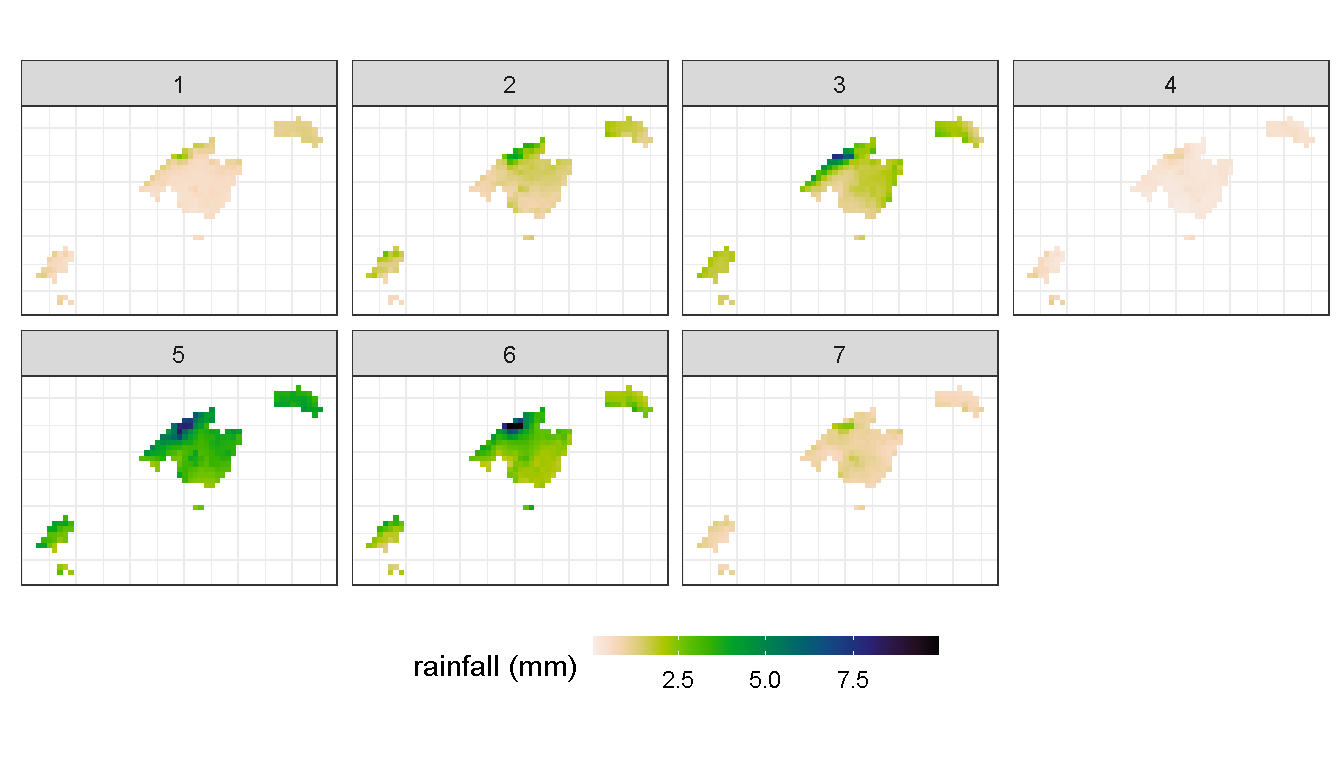
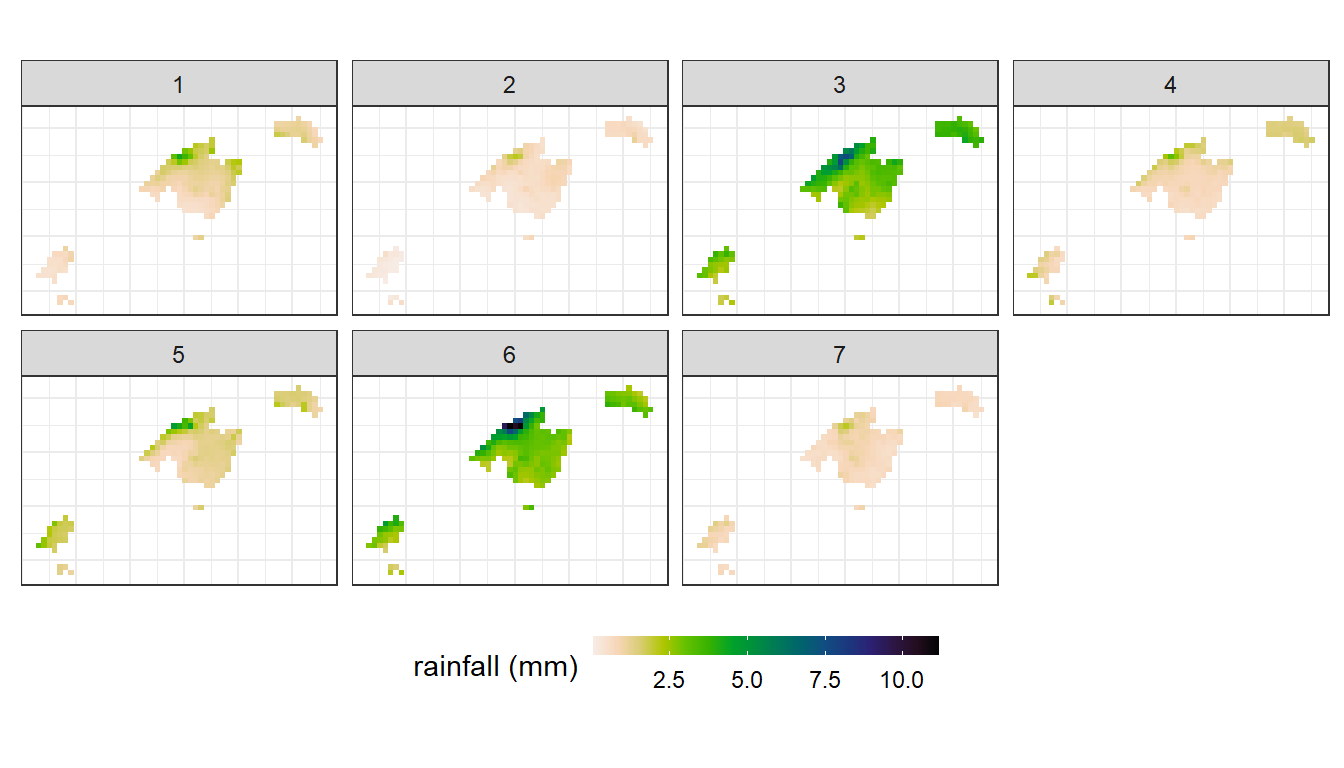
update

diff --git a/synoptreg/articles/circulation-to-environment.html b/synoptreg/articles/circulation-to-environment.html
@@ -84,7 +84,7 @@
       <h1>Circulation-To-Environment</h1>
                         <h4 class="author">Marc Lemus-Canovas</h4>
             
-            <h4 class="date">2020-03-23</h4>
+            <h4 class="date">2020-08-24</h4>
       
       
       <div class="hidden name"><code>circulation-to-environment.Rmd</code></div>
@@ -145,15 +145,15 @@
 <a class="sourceLine" id="cb5-4" title="4"><span class="co">#&gt; # A tibble: 1,096 x 2</span></a>
 <a class="sourceLine" id="cb5-5" title="5"><span class="co">#&gt;    time          WT</span></a>
 <a class="sourceLine" id="cb5-6" title="6"><span class="co">#&gt;    &lt;date&gt;     &lt;int&gt;</span></a>
-<a class="sourceLine" id="cb5-7" title="7"><span class="co">#&gt;  1 2000-01-01     4</span></a>
-<a class="sourceLine" id="cb5-8" title="8"><span class="co">#&gt;  2 2000-01-02     4</span></a>
-<a class="sourceLine" id="cb5-9" title="9"><span class="co">#&gt;  3 2000-01-03     4</span></a>
-<a class="sourceLine" id="cb5-10" title="10"><span class="co">#&gt;  4 2000-01-04     4</span></a>
-<a class="sourceLine" id="cb5-11" title="11"><span class="co">#&gt;  5 2000-01-05     4</span></a>
-<a class="sourceLine" id="cb5-12" title="12"><span class="co">#&gt;  6 2000-01-06     4</span></a>
-<a class="sourceLine" id="cb5-13" title="13"><span class="co">#&gt;  7 2000-01-07     4</span></a>
-<a class="sourceLine" id="cb5-14" title="14"><span class="co">#&gt;  8 2000-01-08     4</span></a>
-<a class="sourceLine" id="cb5-15" title="15"><span class="co">#&gt;  9 2000-01-09     4</span></a>
+<a class="sourceLine" id="cb5-7" title="7"><span class="co">#&gt;  1 2000-01-01     5</span></a>
+<a class="sourceLine" id="cb5-8" title="8"><span class="co">#&gt;  2 2000-01-02     2</span></a>
+<a class="sourceLine" id="cb5-9" title="9"><span class="co">#&gt;  3 2000-01-03     2</span></a>
+<a class="sourceLine" id="cb5-10" title="10"><span class="co">#&gt;  4 2000-01-04     2</span></a>
+<a class="sourceLine" id="cb5-11" title="11"><span class="co">#&gt;  5 2000-01-05     2</span></a>
+<a class="sourceLine" id="cb5-12" title="12"><span class="co">#&gt;  6 2000-01-06     2</span></a>
+<a class="sourceLine" id="cb5-13" title="13"><span class="co">#&gt;  7 2000-01-07     2</span></a>
+<a class="sourceLine" id="cb5-14" title="14"><span class="co">#&gt;  8 2000-01-08     2</span></a>
+<a class="sourceLine" id="cb5-15" title="15"><span class="co">#&gt;  9 2000-01-09     2</span></a>
 <a class="sourceLine" id="cb5-16" title="16"><span class="co">#&gt; 10 2000-01-10     6</span></a>
 <a class="sourceLine" id="cb5-17" title="17"><span class="co">#&gt; # ... with 1,086 more rows</span></a>
 <a class="sourceLine" id="cb5-18" title="18"><span class="co">#&gt; </span></a>
@@ -161,16 +161,16 @@
 <a class="sourceLine" id="cb5-20" title="20"><span class="co">#&gt; # A tibble: 3,094 x 8</span></a>
 <a class="sourceLine" id="cb5-21" title="21"><span class="co">#&gt;    var     lon   lat time          WT mean_WT_value mean_WT_anom_va~</span></a>
 <a class="sourceLine" id="cb5-22" title="22"><span class="co">#&gt;    &lt;chr&gt; &lt;dbl&gt; &lt;dbl&gt; &lt;date&gt;     &lt;int&gt;         &lt;dbl&gt;            &lt;dbl&gt;</span></a>
-<a class="sourceLine" id="cb5-23" title="23"><span class="co">#&gt;  1 mslp  -10      60 2000-01-01     4        99430.           -2262.</span></a>
-<a class="sourceLine" id="cb5-24" title="24"><span class="co">#&gt;  2 mslp   -7.5    60 2000-01-01     4        99489.           -2202.</span></a>
-<a class="sourceLine" id="cb5-25" title="25"><span class="co">#&gt;  3 mslp   -5      60 2000-01-01     4        99533.           -2159.</span></a>
-<a class="sourceLine" id="cb5-26" title="26"><span class="co">#&gt;  4 mslp   -2.5    60 2000-01-01     4        99574.           -2117.</span></a>
-<a class="sourceLine" id="cb5-27" title="27"><span class="co">#&gt;  5 mslp    0      60 2000-01-01     4        99622.           -2069.</span></a>
-<a class="sourceLine" id="cb5-28" title="28"><span class="co">#&gt;  6 mslp    2.5    60 2000-01-01     4        99668.           -2023.</span></a>
-<a class="sourceLine" id="cb5-29" title="29"><span class="co">#&gt;  7 mslp    5      60 2000-01-01     4        99728.           -1964.</span></a>
-<a class="sourceLine" id="cb5-30" title="30"><span class="co">#&gt;  8 mslp    7.5    60 2000-01-01     4        99827.           -1865.</span></a>
-<a class="sourceLine" id="cb5-31" title="31"><span class="co">#&gt;  9 mslp   10      60 2000-01-01     4        99911.           -1781.</span></a>
-<a class="sourceLine" id="cb5-32" title="32"><span class="co">#&gt; 10 mslp   12.5    60 2000-01-01     4        99908.           -1783.</span></a>
+<a class="sourceLine" id="cb5-23" title="23"><span class="co">#&gt;  1 mslp  -10      60 2000-01-01     5       101837.             257.</span></a>
+<a class="sourceLine" id="cb5-24" title="24"><span class="co">#&gt;  2 mslp   -7.5    60 2000-01-01     5       101943.             363.</span></a>
+<a class="sourceLine" id="cb5-25" title="25"><span class="co">#&gt;  3 mslp   -5      60 2000-01-01     5       102022.             442.</span></a>
+<a class="sourceLine" id="cb5-26" title="26"><span class="co">#&gt;  4 mslp   -2.5    60 2000-01-01     5       102085.             505.</span></a>
+<a class="sourceLine" id="cb5-27" title="27"><span class="co">#&gt;  5 mslp    0      60 2000-01-01     5       102131.             551.</span></a>
+<a class="sourceLine" id="cb5-28" title="28"><span class="co">#&gt;  6 mslp    2.5    60 2000-01-01     5       102147.             567.</span></a>
+<a class="sourceLine" id="cb5-29" title="29"><span class="co">#&gt;  7 mslp    5      60 2000-01-01     5       102142.             562.</span></a>
+<a class="sourceLine" id="cb5-30" title="30"><span class="co">#&gt;  8 mslp    7.5    60 2000-01-01     5       102155.             575.</span></a>
+<a class="sourceLine" id="cb5-31" title="31"><span class="co">#&gt;  9 mslp   10      60 2000-01-01     5       102149.             569.</span></a>
+<a class="sourceLine" id="cb5-32" title="32"><span class="co">#&gt; 10 mslp   12.5    60 2000-01-01     5       102048.             468.</span></a>
 <a class="sourceLine" id="cb5-33" title="33"><span class="co">#&gt; # ... with 3,084 more rows, and 1 more variable: cv_WT_value &lt;dbl&gt;</span></a></code></pre></div>
 <p>The object returned by synoptclas is a <code>list</code> that contains a <code>tibble</code> with each date and its corresponding WT, and another <code>tibble</code> that is a grid with the average value of the atmospheric variables for each CT. With this last result we can create a visualization of these synoptic patterns:</p>
 <div class="sourceCode" id="cb6"><pre class="sourceCode r"><code class="sourceCode r"><a class="sourceLine" id="cb6-1" title="1"><span class="kw"><a href="https://rdrr.io/r/base/library.html">library</a></span>(ggplot2) </a>
@@ -238,16 +238,16 @@
 <a class="sourceLine" id="cb8-3" title="3"><span class="co">#&gt; # A tibble: 1,477 x 4</span></a>
 <a class="sourceLine" id="cb8-4" title="4"><span class="co">#&gt;       lon     lat    WT  calc</span></a>
 <a class="sourceLine" id="cb8-5" title="5"><span class="co">#&gt;     &lt;dbl&gt;   &lt;dbl&gt; &lt;int&gt; &lt;dbl&gt;</span></a>
-<a class="sourceLine" id="cb8-6" title="6"><span class="co">#&gt;  1 865672 4313822     4  9.56</span></a>
-<a class="sourceLine" id="cb8-7" title="7"><span class="co">#&gt;  2 870672 4313822     4 10.9 </span></a>
-<a class="sourceLine" id="cb8-8" title="8"><span class="co">#&gt;  3 870672 4318822     4  7.69</span></a>
-<a class="sourceLine" id="cb8-9" title="9"><span class="co">#&gt;  4 875672 4313822     4  5.40</span></a>
-<a class="sourceLine" id="cb8-10" title="10"><span class="co">#&gt;  5 875672 4318822     4  6.44</span></a>
-<a class="sourceLine" id="cb8-11" title="11"><span class="co">#&gt;  6 875672 4323822     4  6.59</span></a>
-<a class="sourceLine" id="cb8-12" title="12"><span class="co">#&gt;  7 875672 4328822     4  6.47</span></a>
-<a class="sourceLine" id="cb8-13" title="13"><span class="co">#&gt;  8 880672 4308822     4  4.94</span></a>
-<a class="sourceLine" id="cb8-14" title="14"><span class="co">#&gt;  9 880672 4313822     4  4.34</span></a>
-<a class="sourceLine" id="cb8-15" title="15"><span class="co">#&gt; 10 880672 4318822     4  6.24</span></a>
+<a class="sourceLine" id="cb8-6" title="6"><span class="co">#&gt;  1 865672 4313822     5  30.7</span></a>
+<a class="sourceLine" id="cb8-7" title="7"><span class="co">#&gt;  2 870672 4313822     5  25.4</span></a>
+<a class="sourceLine" id="cb8-8" title="8"><span class="co">#&gt;  3 870672 4318822     5  25.5</span></a>
+<a class="sourceLine" id="cb8-9" title="9"><span class="co">#&gt;  4 875672 4313822     5  19.1</span></a>
+<a class="sourceLine" id="cb8-10" title="10"><span class="co">#&gt;  5 875672 4318822     5  18.7</span></a>
+<a class="sourceLine" id="cb8-11" title="11"><span class="co">#&gt;  6 875672 4323822     5  22.5</span></a>
+<a class="sourceLine" id="cb8-12" title="12"><span class="co">#&gt;  7 875672 4328822     5  22.3</span></a>
+<a class="sourceLine" id="cb8-13" title="13"><span class="co">#&gt;  8 880672 4308822     5  16.2</span></a>
+<a class="sourceLine" id="cb8-14" title="14"><span class="co">#&gt;  9 880672 4313822     5  16.8</span></a>
+<a class="sourceLine" id="cb8-15" title="15"><span class="co">#&gt; 10 880672 4318822     5  18.0</span></a>
 <a class="sourceLine" id="cb8-16" title="16"><span class="co">#&gt; # ... with 1,467 more rows</span></a></code></pre></div>
 <p>The result is a <code>tibble</code> containing the variables <code>lon</code>, <code>lat</code>, <code>WT</code> and <code>calc</code>. This last column is the result of the average precipitation for each grid point and WT.</p>
 <p>To visualize the result:</p>
@@ -277,21 +277,21 @@
 <a class="sourceLine" id="cb10-7" title="7"><span class="co">#&gt; crs        : NA </span></a>
 <a class="sourceLine" id="cb10-8" title="8"><span class="co">#&gt; source     : memory</span></a>
 <a class="sourceLine" id="cb10-9" title="9"><span class="co">#&gt; names      :         X1,         X2,         X3,         X4,         X5,         X6,         X7 </span></a>
-<a class="sourceLine" id="cb10-10" title="10"><span class="co">#&gt; min values :  3.4160000,  6.6419753,  9.0756303,  0.7777778, 19.1250000, 12.9274194,  5.1167513 </span></a>
-<a class="sourceLine" id="cb10-11" title="11"><span class="co">#&gt; max values :   24.72800,   40.75926,   76.12605,   11.71296,   83.11029,   99.19355,   24.47716</span></a></code></pre></div>
+<a class="sourceLine" id="cb10-10" title="10"><span class="co">#&gt; min values :  3.8611111,  0.6782609, 17.0173913,  4.9358974,  6.4693878, 15.1602210,  4.1316726 </span></a>
+<a class="sourceLine" id="cb10-11" title="11"><span class="co">#&gt; max values :   42.43056,   21.13913,   76.66087,   31.19231,   46.71429,  111.12707,   20.75445</span></a></code></pre></div>
 <p>Now it is a matter of extracting the main spatial patterns of precipitation linked to WTs. For this purpose, we will use the <code><a href="../reference/raster_pca.html">raster_pca()</a></code> function.</p>
 <div class="sourceCode" id="cb11"><pre class="sourceCode r"><code class="sourceCode r"><a class="sourceLine" id="cb11-1" title="1">ct2pcp_r_pca &lt;-<span class="st"> </span><span class="kw"><a href="../reference/raster_pca.html">raster_pca</a></span>(ct2pcp_r)</a>
 <a class="sourceLine" id="cb11-2" title="2">raster<span class="op">::</span><span class="kw"><a href="https://rdrr.io/pkg/raster/man/plot.html">plot</a></span>(ct2pcp_r_pca<span class="op">$</span>rasterPCA)</a></code></pre></div>
 <p><img src="circulation-to-environment_files/figure-html/unnamed-chunk-10-1.png" width="672"></p>
 <div class="sourceCode" id="cb12"><pre class="sourceCode r"><code class="sourceCode r"><a class="sourceLine" id="cb12-1" title="1">ct2pcp_r_pca<span class="op">$</span>summary</a>
 <a class="sourceLine" id="cb12-2" title="2"><span class="co">#&gt;                  Comp.1    Comp.2     Comp.3     Comp.4     Comp.5</span></a>
-<a class="sourceLine" id="cb12-3" title="3"><span class="co">#&gt; sdev          2.1842584 0.9127571 0.78722607 0.59919306 0.42692431</span></a>
-<a class="sourceLine" id="cb12-4" title="4"><span class="co">#&gt; prop.variance 0.6815693 0.1190179 0.08853213 0.05129033 0.02603777</span></a>
-<a class="sourceLine" id="cb12-5" title="5"><span class="co">#&gt; cum.variance  0.6815693 0.8005872 0.88911933 0.94040966 0.96644743</span></a>
-<a class="sourceLine" id="cb12-6" title="6"><span class="co">#&gt;                  Comp.6      Comp.7</span></a>
-<a class="sourceLine" id="cb12-7" title="7"><span class="co">#&gt; sdev          0.4077780 0.261887570</span></a>
-<a class="sourceLine" id="cb12-8" title="8"><span class="co">#&gt; prop.variance 0.0237547 0.009797871</span></a>
-<a class="sourceLine" id="cb12-9" title="9"><span class="co">#&gt; cum.variance  0.9902021 1.000000000</span></a></code></pre></div>
+<a class="sourceLine" id="cb12-3" title="3"><span class="co">#&gt; sdev          2.2273443 0.8918598 0.70747960 0.56361656 0.45290397</span></a>
+<a class="sourceLine" id="cb12-4" title="4"><span class="co">#&gt; prop.variance 0.7087232 0.1136306 0.07150391 0.04538052 0.02930314</span></a>
+<a class="sourceLine" id="cb12-5" title="5"><span class="co">#&gt; cum.variance  0.7087232 0.8223538 0.89385770 0.93923821 0.96854136</span></a>
+<a class="sourceLine" id="cb12-6" title="6"><span class="co">#&gt;                   Comp.6     Comp.7</span></a>
+<a class="sourceLine" id="cb12-7" title="7"><span class="co">#&gt; sdev          0.36876672 0.29020957</span></a>
+<a class="sourceLine" id="cb12-8" title="8"><span class="co">#&gt; prop.variance 0.01942698 0.01203166</span></a>
+<a class="sourceLine" id="cb12-9" title="9"><span class="co">#&gt; cum.variance  0.98796834 1.00000000</span></a></code></pre></div>
 <p>The first 4 PCs accumulate almost 95% of the variance of our original data. Thus, we will use these 4 PCs to run our regionalization by means of the K-means algorithm implemented in the <code><a href="../reference/regionalization.html">regionalization()</a></code> function. For more details on how the regionalization is performed, please read <a href="https://www.sciencedirect.com/science/article/pii/S016980951831189X"><em>Lemus-Canovas et al. (2019)</em></a></p>
 <div class="sourceCode" id="cb13"><pre class="sourceCode r"><code class="sourceCode r"><a class="sourceLine" id="cb13-1" title="1"><span class="co"># Regionalization</span></a>
 <a class="sourceLine" id="cb13-2" title="2">ct2pcp_reg &lt;-<span class="st"> </span><span class="kw"><a href="../reference/regionalization.html">regionalization</a></span>(ct2pcp_r_pca<span class="op">$</span>rasterPCA[[<span class="dv">1</span><span class="op">:</span><span class="dv">4</span>]],<span class="dt">centers =</span> <span class="dv">4</span>) </a>

diff --git a/synoptreg/articles/environment-to-circulation.html b/synoptreg/articles/environment-to-circulation.html
@@ -84,7 +84,7 @@
       <h1>Environment-To-Circulation</h1>
                         <h4 class="author">Marc Lemus-Canovas</h4>
             
-            <h4 class="date">2020-03-23</h4>
+            <h4 class="date">2020-08-24</h4>
       
       
       <div class="hidden name"><code>environment-to-circulation.Rmd</code></div>
@@ -195,9 +195,9 @@
 <a class="sourceLine" id="cb5-5" title="5"><span class="co">#&gt;    time          WT</span></a>
 <a class="sourceLine" id="cb5-6" title="6"><span class="co">#&gt;    &lt;date&gt;     &lt;dbl&gt;</span></a>
 <a class="sourceLine" id="cb5-7" title="7"><span class="co">#&gt;  1 2000-09-04     1</span></a>
-<a class="sourceLine" id="cb5-8" title="8"><span class="co">#&gt;  2 2000-10-11     4</span></a>
-<a class="sourceLine" id="cb5-9" title="9"><span class="co">#&gt;  3 2000-10-22     3</span></a>
-<a class="sourceLine" id="cb5-10" title="10"><span class="co">#&gt;  4 2001-02-18     2</span></a>
+<a class="sourceLine" id="cb5-8" title="8"><span class="co">#&gt;  2 2000-10-11     2</span></a>
+<a class="sourceLine" id="cb5-9" title="9"><span class="co">#&gt;  3 2000-10-22     2</span></a>
+<a class="sourceLine" id="cb5-10" title="10"><span class="co">#&gt;  4 2001-02-18     4</span></a>
 <a class="sourceLine" id="cb5-11" title="11"><span class="co">#&gt;  5 2001-07-16     1</span></a>
 <a class="sourceLine" id="cb5-12" title="12"><span class="co">#&gt;  6 2001-09-06     1</span></a>
 <a class="sourceLine" id="cb5-13" title="13"><span class="co">#&gt;  7 2001-11-10     2</span></a>
@@ -211,9 +211,9 @@
 <a class="sourceLine" id="cb5-21" title="21"><span class="co">#&gt;    time       WT   </span></a>
 <a class="sourceLine" id="cb5-22" title="22"><span class="co">#&gt;    &lt;date&gt;     &lt;chr&gt;</span></a>
 <a class="sourceLine" id="cb5-23" title="23"><span class="co">#&gt;  1 2000-09-04 1+   </span></a>
-<a class="sourceLine" id="cb5-24" title="24"><span class="co">#&gt;  2 2000-10-11 4-   </span></a>
-<a class="sourceLine" id="cb5-25" title="25"><span class="co">#&gt;  3 2000-10-22 3-   </span></a>
-<a class="sourceLine" id="cb5-26" title="26"><span class="co">#&gt;  4 2001-02-18 2+   </span></a>
+<a class="sourceLine" id="cb5-24" title="24"><span class="co">#&gt;  2 2000-10-11 2-   </span></a>
+<a class="sourceLine" id="cb5-25" title="25"><span class="co">#&gt;  3 2000-10-22 2-   </span></a>
+<a class="sourceLine" id="cb5-26" title="26"><span class="co">#&gt;  4 2001-02-18 4+   </span></a>
 <a class="sourceLine" id="cb5-27" title="27"><span class="co">#&gt;  5 2001-07-16 1+   </span></a>
 <a class="sourceLine" id="cb5-28" title="28"><span class="co">#&gt;  6 2001-09-06 1+   </span></a>
 <a class="sourceLine" id="cb5-29" title="29"><span class="co">#&gt;  7 2001-11-10 2+   </span></a>
@@ -226,33 +226,33 @@
 <a class="sourceLine" id="cb5-36" title="36"><span class="co">#&gt; # A tibble: 2,145 x 8</span></a>
 <a class="sourceLine" id="cb5-37" title="37"><span class="co">#&gt;    var     lon   lat time          WT mean_WT_value mean_WT_anom_va~</span></a>
 <a class="sourceLine" id="cb5-38" title="38"><span class="co">#&gt;    &lt;chr&gt; &lt;dbl&gt; &lt;dbl&gt; &lt;date&gt;     &lt;dbl&gt;         &lt;dbl&gt;            &lt;dbl&gt;</span></a>
-<a class="sourceLine" id="cb5-39" title="39"><span class="co">#&gt;  1 slp   -15      55 2000-09-04     1       101982.             371.</span></a>
-<a class="sourceLine" id="cb5-40" title="40"><span class="co">#&gt;  2 slp   -12.5    55 2000-09-04     1       102090.             479.</span></a>
-<a class="sourceLine" id="cb5-41" title="41"><span class="co">#&gt;  3 slp   -10      55 2000-09-04     1       102178.             567.</span></a>
-<a class="sourceLine" id="cb5-42" title="42"><span class="co">#&gt;  4 slp    -7.5    55 2000-09-04     1       102227.             616.</span></a>
-<a class="sourceLine" id="cb5-43" title="43"><span class="co">#&gt;  5 slp    -5      55 2000-09-04     1       102273.             662.</span></a>
-<a class="sourceLine" id="cb5-44" title="44"><span class="co">#&gt;  6 slp    -2.5    55 2000-09-04     1       102257.             646.</span></a>
-<a class="sourceLine" id="cb5-45" title="45"><span class="co">#&gt;  7 slp     0      55 2000-09-04     1       102253.             642.</span></a>
-<a class="sourceLine" id="cb5-46" title="46"><span class="co">#&gt;  8 slp     2.5    55 2000-09-04     1       102220.             609.</span></a>
-<a class="sourceLine" id="cb5-47" title="47"><span class="co">#&gt;  9 slp     5      55 2000-09-04     1       102155.             544.</span></a>
-<a class="sourceLine" id="cb5-48" title="48"><span class="co">#&gt; 10 slp     7.5    55 2000-09-04     1       102084.             473.</span></a>
+<a class="sourceLine" id="cb5-39" title="39"><span class="co">#&gt;  1 slp   -15      55 2000-09-04     1       102114.             437.</span></a>
+<a class="sourceLine" id="cb5-40" title="40"><span class="co">#&gt;  2 slp   -12.5    55 2000-09-04     1       102189.             512.</span></a>
+<a class="sourceLine" id="cb5-41" title="41"><span class="co">#&gt;  3 slp   -10      55 2000-09-04     1       102236.             559.</span></a>
+<a class="sourceLine" id="cb5-42" title="42"><span class="co">#&gt;  4 slp    -7.5    55 2000-09-04     1       102253.             576.</span></a>
+<a class="sourceLine" id="cb5-43" title="43"><span class="co">#&gt;  5 slp    -5      55 2000-09-04     1       102262.             585.</span></a>
+<a class="sourceLine" id="cb5-44" title="44"><span class="co">#&gt;  6 slp    -2.5    55 2000-09-04     1       102244.             567.</span></a>
+<a class="sourceLine" id="cb5-45" title="45"><span class="co">#&gt;  7 slp     0      55 2000-09-04     1       102228.             551.</span></a>
+<a class="sourceLine" id="cb5-46" title="46"><span class="co">#&gt;  8 slp     2.5    55 2000-09-04     1       102189.             512.</span></a>
+<a class="sourceLine" id="cb5-47" title="47"><span class="co">#&gt;  9 slp     5      55 2000-09-04     1       102127.             450.</span></a>
+<a class="sourceLine" id="cb5-48" title="48"><span class="co">#&gt; 10 slp     7.5    55 2000-09-04     1       102041.             364.</span></a>
 <a class="sourceLine" id="cb5-49" title="49"><span class="co">#&gt; # ... with 2,135 more rows, and 1 more variable: cv_WT_value &lt;dbl&gt;</span></a>
 <a class="sourceLine" id="cb5-50" title="50"><span class="co">#&gt; </span></a>
 <a class="sourceLine" id="cb5-51" title="51"><span class="co">#&gt; $grid_clas_pn</span></a>
-<a class="sourceLine" id="cb5-52" title="52"><span class="co">#&gt; # A tibble: 2,145 x 8</span></a>
+<a class="sourceLine" id="cb5-52" title="52"><span class="co">#&gt; # A tibble: 4,290 x 8</span></a>
 <a class="sourceLine" id="cb5-53" title="53"><span class="co">#&gt;    var     lon   lat time       WT    mean_WT_value mean_WT_anom_va~</span></a>
 <a class="sourceLine" id="cb5-54" title="54"><span class="co">#&gt;    &lt;chr&gt; &lt;dbl&gt; &lt;dbl&gt; &lt;date&gt;     &lt;chr&gt;         &lt;dbl&gt;            &lt;dbl&gt;</span></a>
-<a class="sourceLine" id="cb5-55" title="55"><span class="co">#&gt;  1 slp   -15      55 2000-09-04 1+          101982.             371.</span></a>
-<a class="sourceLine" id="cb5-56" title="56"><span class="co">#&gt;  2 slp   -12.5    55 2000-09-04 1+          102090.             479.</span></a>
-<a class="sourceLine" id="cb5-57" title="57"><span class="co">#&gt;  3 slp   -10      55 2000-09-04 1+          102178.             567.</span></a>
-<a class="sourceLine" id="cb5-58" title="58"><span class="co">#&gt;  4 slp    -7.5    55 2000-09-04 1+          102227.             616.</span></a>
-<a class="sourceLine" id="cb5-59" title="59"><span class="co">#&gt;  5 slp    -5      55 2000-09-04 1+          102273.             662.</span></a>
-<a class="sourceLine" id="cb5-60" title="60"><span class="co">#&gt;  6 slp    -2.5    55 2000-09-04 1+          102257.             646.</span></a>
-<a class="sourceLine" id="cb5-61" title="61"><span class="co">#&gt;  7 slp     0      55 2000-09-04 1+          102253.             642.</span></a>
-<a class="sourceLine" id="cb5-62" title="62"><span class="co">#&gt;  8 slp     2.5    55 2000-09-04 1+          102220.             609.</span></a>
-<a class="sourceLine" id="cb5-63" title="63"><span class="co">#&gt;  9 slp     5      55 2000-09-04 1+          102155.             544.</span></a>
-<a class="sourceLine" id="cb5-64" title="64"><span class="co">#&gt; 10 slp     7.5    55 2000-09-04 1+          102084.             473.</span></a>
-<a class="sourceLine" id="cb5-65" title="65"><span class="co">#&gt; # ... with 2,135 more rows, and 1 more variable: cv_WT_value &lt;dbl&gt;</span></a></code></pre></div>
+<a class="sourceLine" id="cb5-55" title="55"><span class="co">#&gt;  1 slp   -15      55 2000-09-04 1+          102328.             692.</span></a>
+<a class="sourceLine" id="cb5-56" title="56"><span class="co">#&gt;  2 slp   -12.5    55 2000-09-04 1+          102334.             698.</span></a>
+<a class="sourceLine" id="cb5-57" title="57"><span class="co">#&gt;  3 slp   -10      55 2000-09-04 1+          102316.             680.</span></a>
+<a class="sourceLine" id="cb5-58" title="58"><span class="co">#&gt;  4 slp    -7.5    55 2000-09-04 1+          102271.             635.</span></a>
+<a class="sourceLine" id="cb5-59" title="59"><span class="co">#&gt;  5 slp    -5      55 2000-09-04 1+          102230.             593.</span></a>
+<a class="sourceLine" id="cb5-60" title="60"><span class="co">#&gt;  6 slp    -2.5    55 2000-09-04 1+          102167.             531.</span></a>
+<a class="sourceLine" id="cb5-61" title="61"><span class="co">#&gt;  7 slp     0      55 2000-09-04 1+          102120.             484.</span></a>
+<a class="sourceLine" id="cb5-62" title="62"><span class="co">#&gt;  8 slp     2.5    55 2000-09-04 1+          102028.             392.</span></a>
+<a class="sourceLine" id="cb5-63" title="63"><span class="co">#&gt;  9 slp     5      55 2000-09-04 1+          101913.             277.</span></a>
+<a class="sourceLine" id="cb5-64" title="64"><span class="co">#&gt; 10 slp     7.5    55 2000-09-04 1+          101781.             145.</span></a>
+<a class="sourceLine" id="cb5-65" title="65"><span class="co">#&gt; # ... with 4,280 more rows, and 1 more variable: cv_WT_value &lt;dbl&gt;</span></a></code></pre></div>
 <p>The object returned by <code>synoptclas</code> differs relatively from the object returned when we apply a classification in <code>"S-mode"</code>. This time, the output is a list with 4 objects: 2 objects are <code>tibbles</code> with the variables <code>time</code> and <code>WT</code>. The difference between the two objects lies in the grouping method applied to get the WTs. In <code>clas_abs</code> the association is done with the absolute values of the loadings; in <code>clas_pn</code> the extreme positive and negative values are used to get the final groups. The two remaining objects are the grids classified with each of these two methods. This time we will work with the method that classifies the WTs using the absolute loadings (correlation coefficients).</p>
 <p>Let’s see the result:</p>
 <div class="sourceCode" id="cb6"><pre class="sourceCode r"><code class="sourceCode r"><a class="sourceLine" id="cb6-1" title="1"><span class="kw"><a href="https://rdrr.io/r/base/library.html">library</a></span>(ggplot2) </a>
@@ -289,9 +289,7 @@
 <a class="sourceLine" id="cb6-32" title="32">                       <span class="dt">axis.text =</span> <span class="kw">element_blank</span>(),</a>
 <a class="sourceLine" id="cb6-33" title="33">                       <span class="dt">axis.ticks =</span> <span class="kw">element_blank</span>(),</a>
 <a class="sourceLine" id="cb6-34" title="34">                       <span class="dt">legend.position =</span> <span class="st">"bottom"</span>)</a>
-<a class="sourceLine" id="cb6-35" title="35"><span class="co">#&gt; Warning: Removed 115 rows containing missing values (geom_raster).</span></a>
-<a class="sourceLine" id="cb6-36" title="36"><span class="co">#&gt; Warning in min(var, na.rm = TRUE): ningún argumento finito para min;</span></a>
-<a class="sourceLine" id="cb6-37" title="37"><span class="co">#&gt; retornando Inf</span></a></code></pre></div>
+<a class="sourceLine" id="cb6-35" title="35"><span class="co">#&gt; Warning: Removed 115 rows containing missing values (geom_raster).</span></a></code></pre></div>
 <p><img src="environment-to-circulation_files/figure-html/unnamed-chunk-6-1.png" width="672"></p>
 </div>
 </div>

diff --git a/synoptreg/reference/ct2env.html b/synoptreg/reference/ct2env.html
@@ -175,16 +175,16 @@
 <span class='fu'>ct2env</span>(<span class='kw'>x</span> <span class='kw'>=</span> <span class='no'>pcp</span>, <span class='kw'>clas</span> <span class='kw'>=</span> <span class='no'>smode_clas</span>$<span class='no'>clas</span>, <span class='kw'>fun</span> <span class='kw'>=</span> <span class='no'>mean</span>, <span class='kw'>out</span> <span class='kw'>=</span> <span class='st'>"data.frame"</span>)</div><div class='output co'>#&gt; <span style='color: #555555;'># A tibble: 2,321 x 4</span><span>
 #&gt;       lon     lat    WT  calc
 #&gt;     </span><span style='color: #555555;font-style: italic;'>&lt;dbl&gt;</span><span>   </span><span style='color: #555555;font-style: italic;'>&lt;dbl&gt;</span><span> </span><span style='color: #555555;font-style: italic;'>&lt;int&gt;</span><span> </span><span style='color: #555555;font-style: italic;'>&lt;dbl&gt;</span><span>
-#&gt; </span><span style='color: #555555;'> 1</span><span> </span><span style='text-decoration: underline;'>865</span><span>672 4</span><span style='text-decoration: underline;'>313</span><span>822     6 10.6 
-#&gt; </span><span style='color: #555555;'> 2</span><span> </span><span style='text-decoration: underline;'>870</span><span>672 4</span><span style='text-decoration: underline;'>313</span><span>822     6  4.67
-#&gt; </span><span style='color: #555555;'> 3</span><span> </span><span style='text-decoration: underline;'>870</span><span>672 4</span><span style='text-decoration: underline;'>318</span><span>822     6 11.6 
-#&gt; </span><span style='color: #555555;'> 4</span><span> </span><span style='text-decoration: underline;'>875</span><span>672 4</span><span style='text-decoration: underline;'>313</span><span>822     6  4.19
-#&gt; </span><span style='color: #555555;'> 5</span><span> </span><span style='text-decoration: underline;'>875</span><span>672 4</span><span style='text-decoration: underline;'>318</span><span>822     6  7.15
-#&gt; </span><span style='color: #555555;'> 6</span><span> </span><span style='text-decoration: underline;'>875</span><span>672 4</span><span style='text-decoration: underline;'>323</span><span>822     6 13.2 
-#&gt; </span><span style='color: #555555;'> 7</span><span> </span><span style='text-decoration: underline;'>875</span><span>672 4</span><span style='text-decoration: underline;'>328</span><span>822     6 19.7 
-#&gt; </span><span style='color: #555555;'> 8</span><span> </span><span style='text-decoration: underline;'>880</span><span>672 4</span><span style='text-decoration: underline;'>308</span><span>822     6  4.19
-#&gt; </span><span style='color: #555555;'> 9</span><span> </span><span style='text-decoration: underline;'>880</span><span>672 4</span><span style='text-decoration: underline;'>313</span><span>822     6  4.63
-#&gt; </span><span style='color: #555555;'>10</span><span> </span><span style='text-decoration: underline;'>880</span><span>672 4</span><span style='text-decoration: underline;'>318</span><span>822     6  8.42
+#&gt; </span><span style='color: #555555;'> 1</span><span> </span><span style='text-decoration: underline;'>865</span><span>672 4</span><span style='text-decoration: underline;'>313</span><span>822    10  2.17
+#&gt; </span><span style='color: #555555;'> 2</span><span> </span><span style='text-decoration: underline;'>870</span><span>672 4</span><span style='text-decoration: underline;'>313</span><span>822    10  2.35
+#&gt; </span><span style='color: #555555;'> 3</span><span> </span><span style='text-decoration: underline;'>870</span><span>672 4</span><span style='text-decoration: underline;'>318</span><span>822    10  2.36
+#&gt; </span><span style='color: #555555;'> 4</span><span> </span><span style='text-decoration: underline;'>875</span><span>672 4</span><span style='text-decoration: underline;'>313</span><span>822    10  1.44
+#&gt; </span><span style='color: #555555;'> 5</span><span> </span><span style='text-decoration: underline;'>875</span><span>672 4</span><span style='text-decoration: underline;'>318</span><span>822    10  2.17
+#&gt; </span><span style='color: #555555;'> 6</span><span> </span><span style='text-decoration: underline;'>875</span><span>672 4</span><span style='text-decoration: underline;'>323</span><span>822    10  2.05
+#&gt; </span><span style='color: #555555;'> 7</span><span> </span><span style='text-decoration: underline;'>875</span><span>672 4</span><span style='text-decoration: underline;'>328</span><span>822    10  5   
+#&gt; </span><span style='color: #555555;'> 8</span><span> </span><span style='text-decoration: underline;'>880</span><span>672 4</span><span style='text-decoration: underline;'>308</span><span>822    10  1.37
+#&gt; </span><span style='color: #555555;'> 9</span><span> </span><span style='text-decoration: underline;'>880</span><span>672 4</span><span style='text-decoration: underline;'>313</span><span>822    10  1.44
+#&gt; </span><span style='color: #555555;'>10</span><span> </span><span style='text-decoration: underline;'>880</span><span>672 4</span><span style='text-decoration: underline;'>318</span><span>822    10  1.79
 #&gt; </span><span style='color: #555555;'># ... with 2,311 more rows</span><span></div><div class='input'>
 
 </div></span></pre>

diff --git a/synoptreg/news/index.html b/synoptreg/news/index.html
@@ -123,9 +123,17 @@
       
     </div>
 
+    <div id="synoptreg-102" class="section level1">
+<h1 class="page-header">
+<a href="#synoptreg-102" class="anchor"></a>synoptReg 1.0.2<small> Unreleased </small>
+</h1>
+<ul>
+<li>Bug fixed: A problem with scaling atmospheric variable was found.</li>
+</ul>
+</div>
     <div id="synoptreg-101" class="section level1">
 <h1 class="page-header">
-<a href="#synoptreg-101" class="anchor"></a>synoptReg 1.0.1<small> Unreleased </small>
+<a href="#synoptreg-101" class="anchor"></a>synoptReg 1.0.1<small> 2020-03-23 </small>
 </h1>
 <p>Minor release.</p>
 <ul>
@@ -174,6 +182,7 @@
     <div id="tocnav">
       <h2>Contents</h2>
       <ul class="nav nav-pills nav-stacked">
+        <li><a href="#synoptreg-102">1.0.2</a></li>
         <li><a href="#synoptreg-101">1.0.1</a></li>
         <li><a href="#synoptreg-100">1.0.0</a></li>
         <li><a href="#synoptreg-030">0.3.0</a></li>

diff --git a/synoptreg/articles/classification_metrics.html b/synoptreg/articles/classification_metrics.html
@@ -84,7 +84,7 @@
       <h1>Extracting metrics from the synoptic classification</h1>
                         <h4 class="author">Marc Lemus-Canovas</h4>
             
-            <h4 class="date">2020-03-23</h4>
+            <h4 class="date">2020-08-24</h4>
       
       
       <div class="hidden name"><code>classification_metrics.Rmd</code></div>
